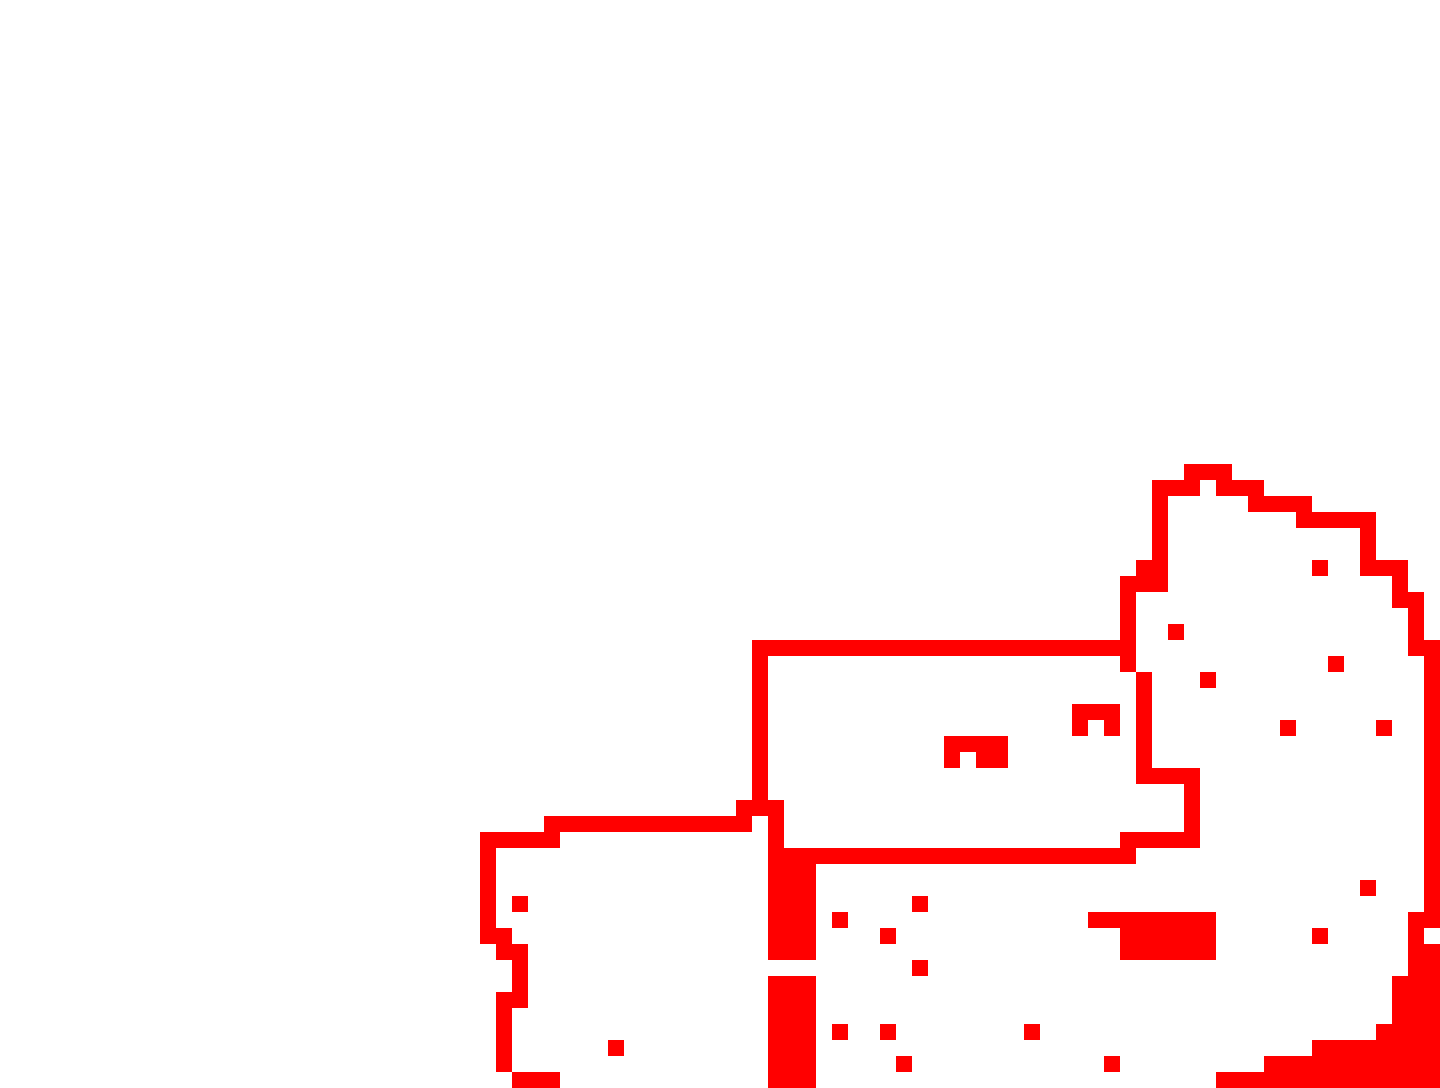
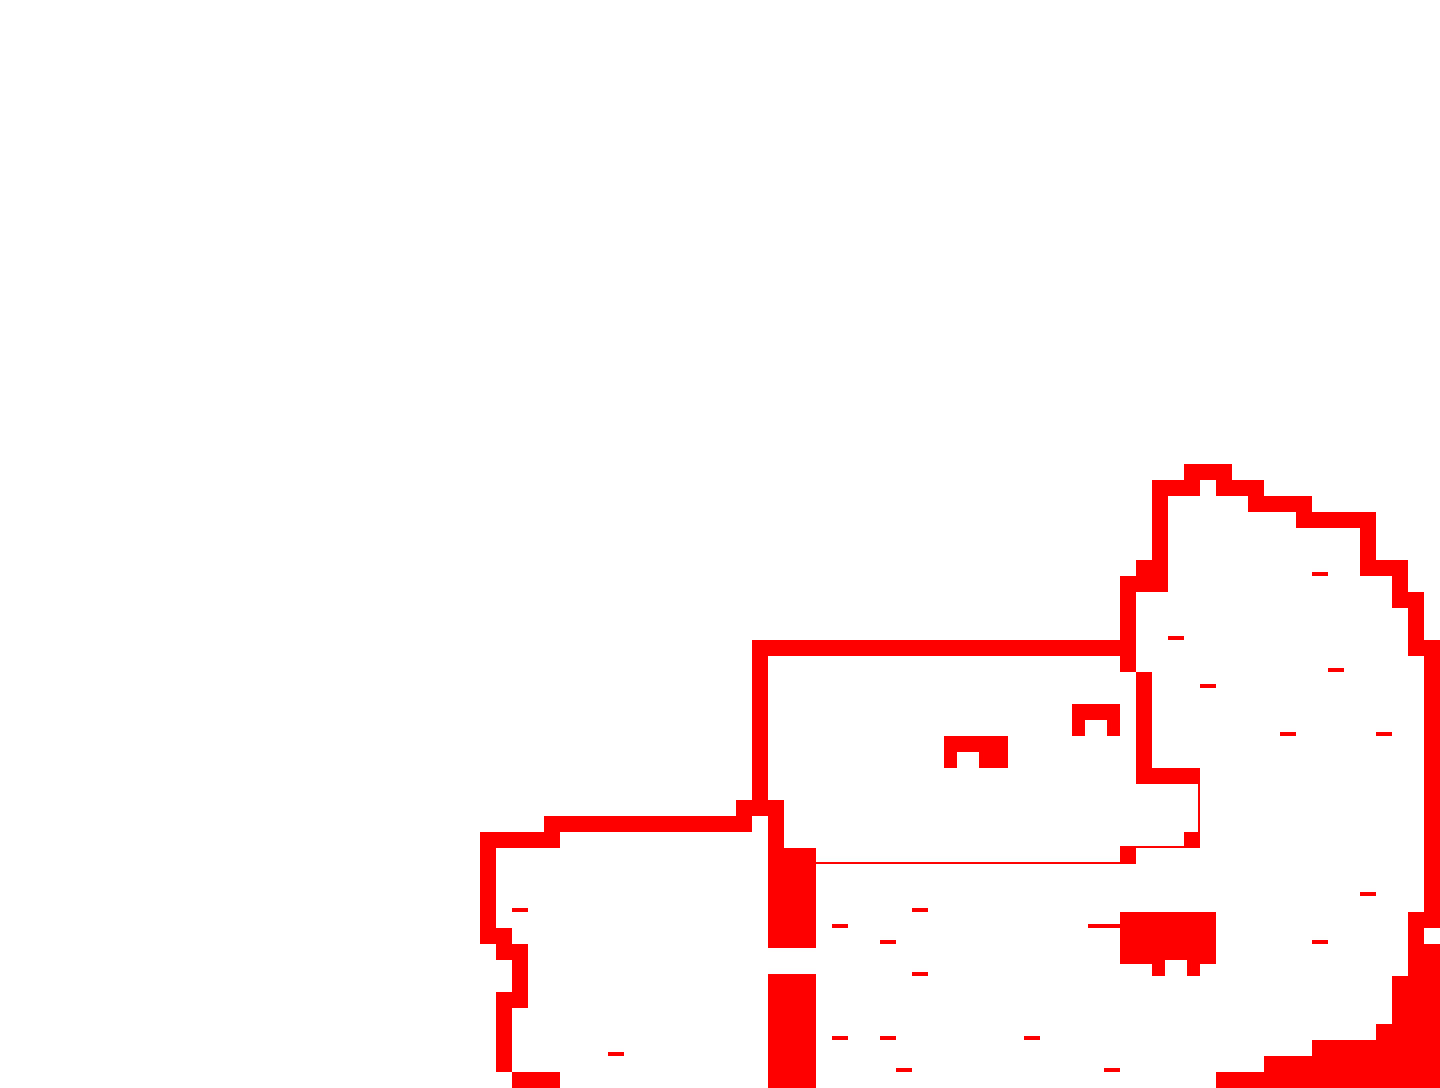
ADD: better collisions

diff --git a/src/regions/loop_region.c b/src/regions/loop_region.c
@@ -41,7 +41,9 @@ void draw_debug_mode(game_t *game, region_t *region)
     if (!game->debug_mode)
         return;
     static sfSprite *collision = NULL;
-    if (collision == NULL) {
+    static region_t *region_old = NULL;
+    if (collision == NULL || region_old != region) {
+        region_old = region;
         collision = sfSprite_create();
         sfSprite_setTexture(collision, sfTexture_createFromImage(
             region->map->collision, NULL), false);
